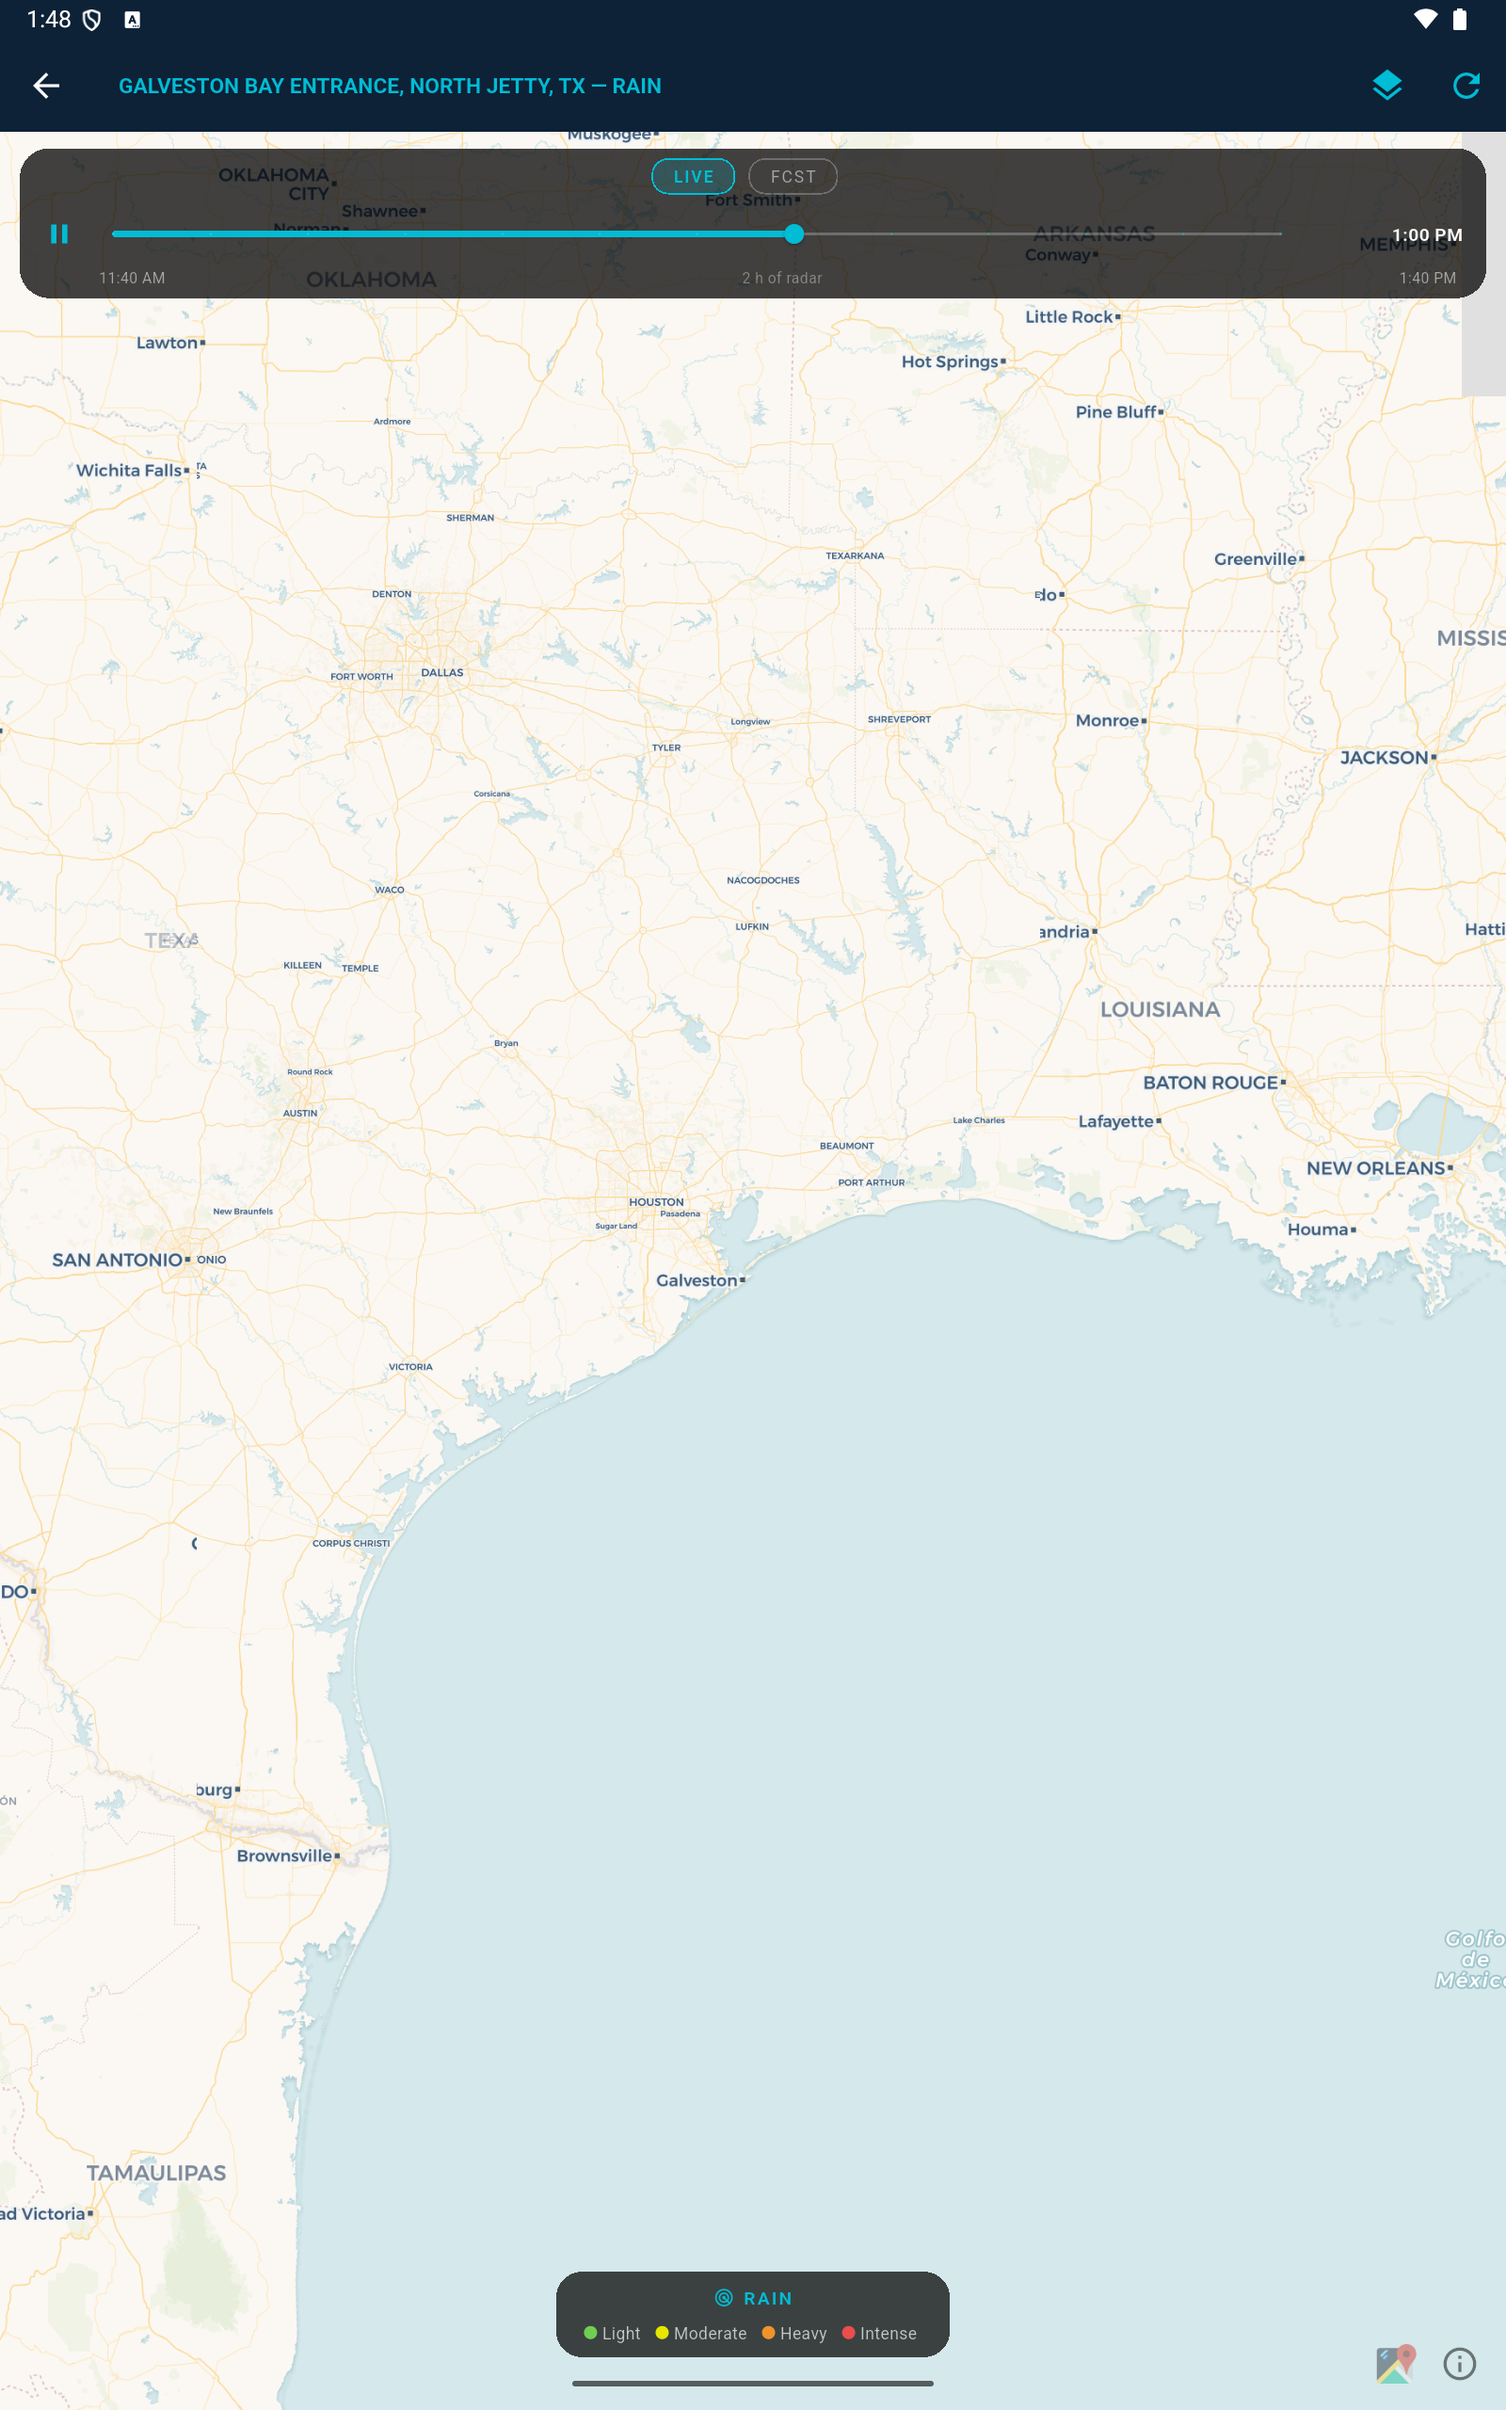
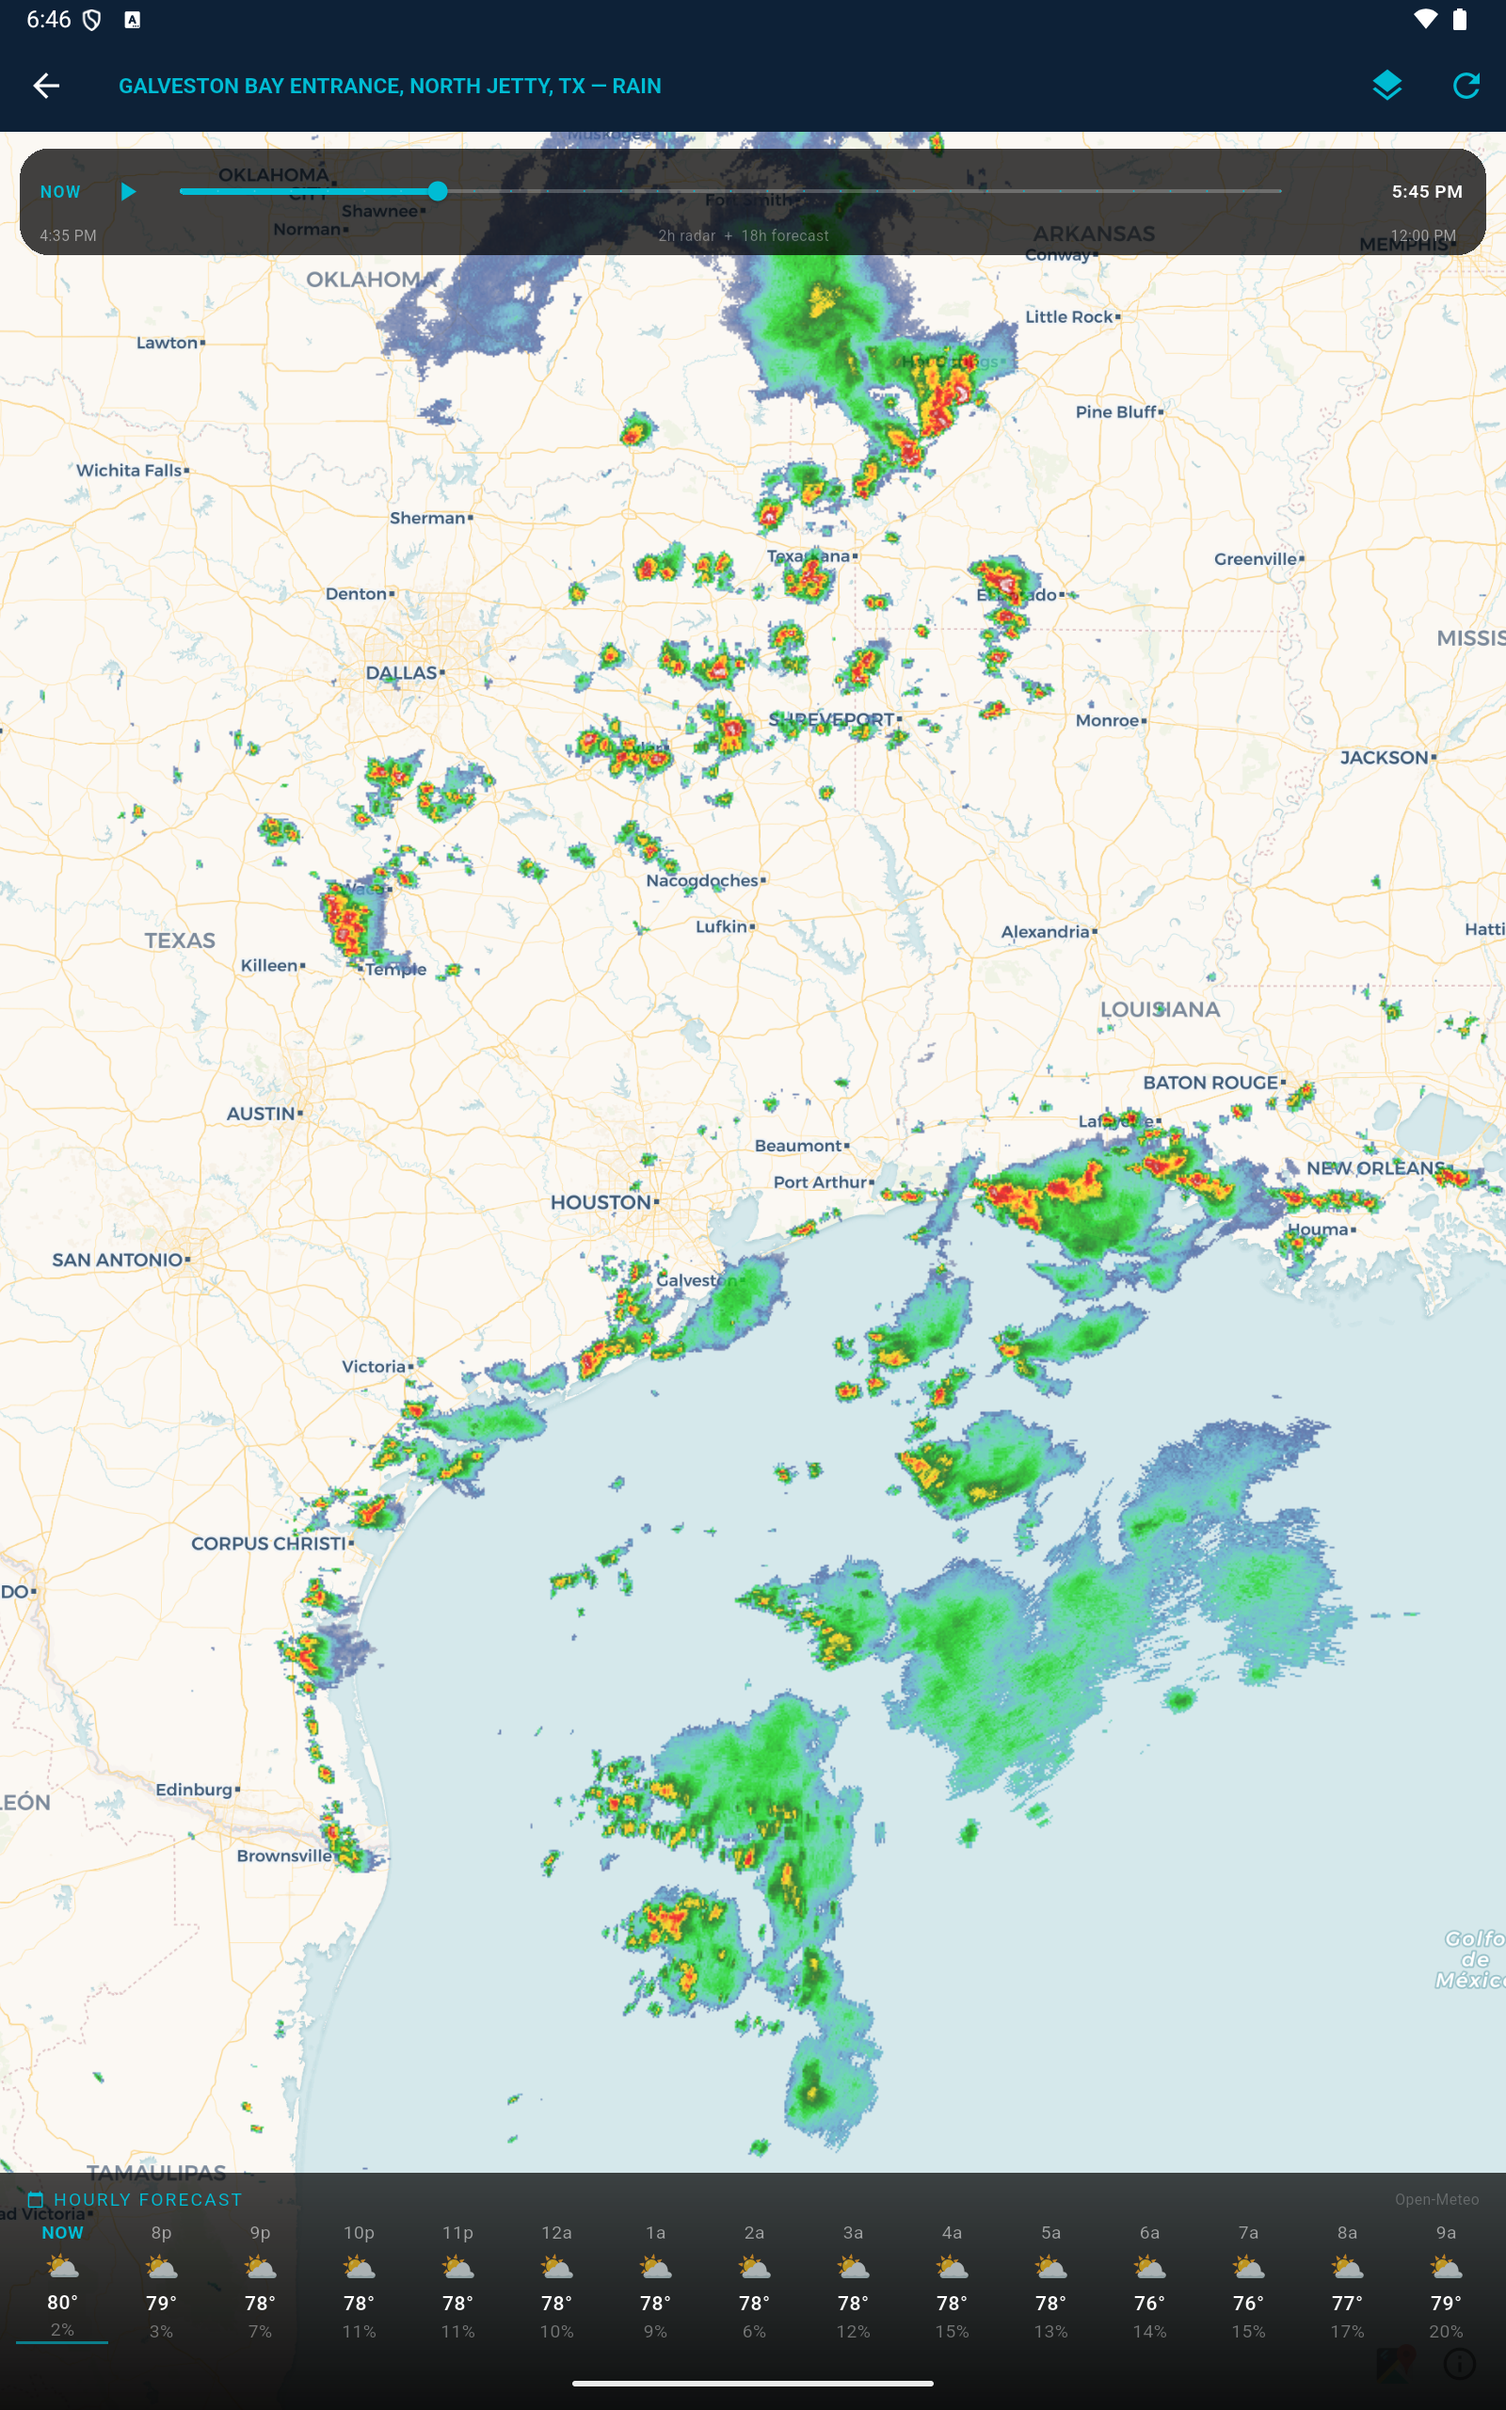
docs: README v3.1–3.3 changelog, NOAA radar throughout; refresh radar screenshots

diff --git a/README.md b/README.md
@@ -26,9 +26,13 @@ that point; the data follows the map as you pan and zoom.
 |------|-------------|-------|
 | ![Wind](screenshots/wind_map.png) | ![Layers](screenshots/wind_map_layers.png) | ![Swell](screenshots/wind_map_swell.png) |
 
-| Live rain radar (animated) | Pressure isobars | Temperature + tap-to-read |
+| NOAA radar → forecast timeline | Pressure isobars | Temperature + tap-to-read |
 |-----------------|------------------|---------------------------|
 | ![Radar](screenshots/wind_map_radar.png) | ![Pressure](screenshots/wind_map_pressure.png) | ![Temperature](screenshots/wind_map_temp.png) |
+
+| Hourly forecast strip |
+|-----------------------|
+| ![Forecast](screenshots/wind_map_radar_fcst.png) |
 
 ### Units
 
@@ -44,7 +48,23 @@ that point; the data follows the map as you pan and zoom.
 
 ## Changelog
 
-### v3.0.0 — latest release (native-maps rewrite)
+### v3.3.0 — latest release (NOAA radar + unified rain timeline)
+- **NOAA MRMS radar** — the Rain layer's live/observed portion now renders NOAA's MRMS composite reflectivity (`conus_cref_qcd`) via WMS — the same full-resolution, ~2-minute-cadence national radar mosaic the major weather apps show. Free, no API key, US coverage. Replaces RainViewer.
+- **Unified rain timeline** — one scrubbable timeline flows seamlessly from ~2 h of observed NOAA radar, through *now*, into an 18 h precipitation forecast. No mode toggle; a **NOW** button jumps back to the current frame.
+- **Hourly forecast strip** — a scrollable bottom strip shows the next 18 h: weather icon, temperature, and rain probability per hour (Open-Meteo).
+- **Smoother forecast overlay** — the forecast precipitation grid was densified (16×16) and is rendered at 128 px with bilinear interpolation, so it reads as smooth precipitation instead of blocky patches.
+- **Fishing rating on every day** — the Fishing card now appears for future days too (a solunar-vs-tide alignment score), not just today.
+- **Detail header cleanup** — full station name + ID always visible in a banner; date arrows and the TODAY/WEEK toggle share one compact row.
+
+### v3.2.0 (build 30)
+- **Hourly forecast strip** added to the Rain forecast view (weather icon · temp · rain %, 18 h ahead).
+- **Fishing rating shown for all days**, not only today.
+
+### v3.1.0 (build 28)
+- **Rain forecast mode** — a LIVE/FCST toggle (since superseded by the unified timeline in 3.3) added an 18 h Open-Meteo precipitation forecast alongside the live radar.
+- **Detail screen** station header redesigned (full name + ID banner, merged nav row).
+
+### v3.0.0 (native-maps rewrite)
 - **Native weather map** — replaced the Windy embed with a fully custom Flutter map (flutter_map + Open-Meteo, no third-party branding or WebView): a smooth GPU-scaled gradient wash plus an animated particle flow rendered with a `CustomPainter`
 - **Seven layers** — Wind, Waves, Swell, Rain, Temperature, Pressure, Clouds, chosen from a bottom-sheet layer picker; each with its own colour ramp and legend
 - **Live rain radar** — the Rain layer shows real weather radar (RainViewer) with an animated, scrubbable timeline (~2 h of frames) and a play/pause control
@@ -116,10 +136,10 @@ that point; the data follows the map as you pan and zoom.
 - **Week view** — 7 days of hi/lo tides with NWS temperature and short forecast; tap any day to expand
 - **Solunar tables** — major/minor feeding periods calculated from moon position
 - **Sun & moon** — sunrise, sunset, golden hour, moon phase and illumination percentage
-- **Fishing rating** — 1–5 star rating based on tidal movement, solunar timing, and wind
+- **Fishing rating** — 1–5 star rating based on tidal movement, solunar timing, and wind; shown for every day (future days use a solunar-vs-tide alignment score)
 - **Interactive tide chart** — tap or drag anywhere to see exact time and height
 - **Weather map** — a native, Windy-style map (no third-party embed) with a smooth gradient wash and animated particle flow. Seven layers: **Wind, Waves, Swell, Rain, Temperature, Pressure, Clouds**
-  - **Live rain radar** — real weather radar (RainViewer) with an animated, scrubbable timeline (~2 h)
+  - **NOAA radar → forecast** — a unified scrubbable timeline: ~2 h of NOAA MRMS composite-reflectivity radar flows through *now* into an 18 h precipitation forecast, with a NOW button and an hourly strip (icon · temp · rain %)
   - **Pressure isobars** — labelled contour lines, synoptic-scale view
   - **Tap-to-read** — tap anywhere to read the value (and direction) at that point
   - **Follows the map** — the overlay re-fetches to cover wherever you pan or zoom
@@ -147,7 +167,7 @@ that point; the data follows the map as you pan and zoom.
 | Wave data | Open-Meteo Marine API (CC BY 4.0) |
 | Weather map | flutter_map + latlong2 · custom `CustomPainter` gradient & particles |
 | Map forecast | Open-Meteo forecast & marine APIs |
-| Rain radar | RainViewer public API (free) |
+| Rain radar | NOAA MRMS composite reflectivity via WMS (NCEP GeoServer, free, no key) |
 | Basemap tiles | CARTO Voyager (© CARTO, © OpenStreetMap) |
 | Salinity map | NOAA NGOFS2 OFS forecast plots (tidesandcurrents CDN) |
 | Updates | Google Play In-App Update API |
@@ -221,8 +241,8 @@ isobars, radar, and the layer system are all self-contained there.
   https://api.weather.gov/
 - **Open-Meteo** — forecast (wind, temperature, pressure, cloud, precipitation) and marine (wave/swell) data for the weather map; wave data on the detail screen (CC BY 4.0)  
   https://open-meteo.com/
-- **RainViewer** — live precipitation radar tiles for the Rain layer (free public API)  
-  https://www.rainviewer.com/
+- **NOAA / NWS MRMS** — composite-reflectivity radar (`conus_cref_qcd`) for the Rain layer's live/observed timeline, served as WMS from the NCEP GeoServer (public domain, no API key)  
+  https://opengeo.ncep.noaa.gov/geoserver/conus/wms · https://mrms.ncep.noaa.gov/
 - **CARTO / OpenStreetMap** — Voyager basemap tiles for the weather map  
   https://carto.com/ · https://www.openstreetmap.org/
 - **NOAA NGOFS2 OFS** — hourly surface-salinity forecast map plots (Northern Gulf of America Operational Forecast System)  
